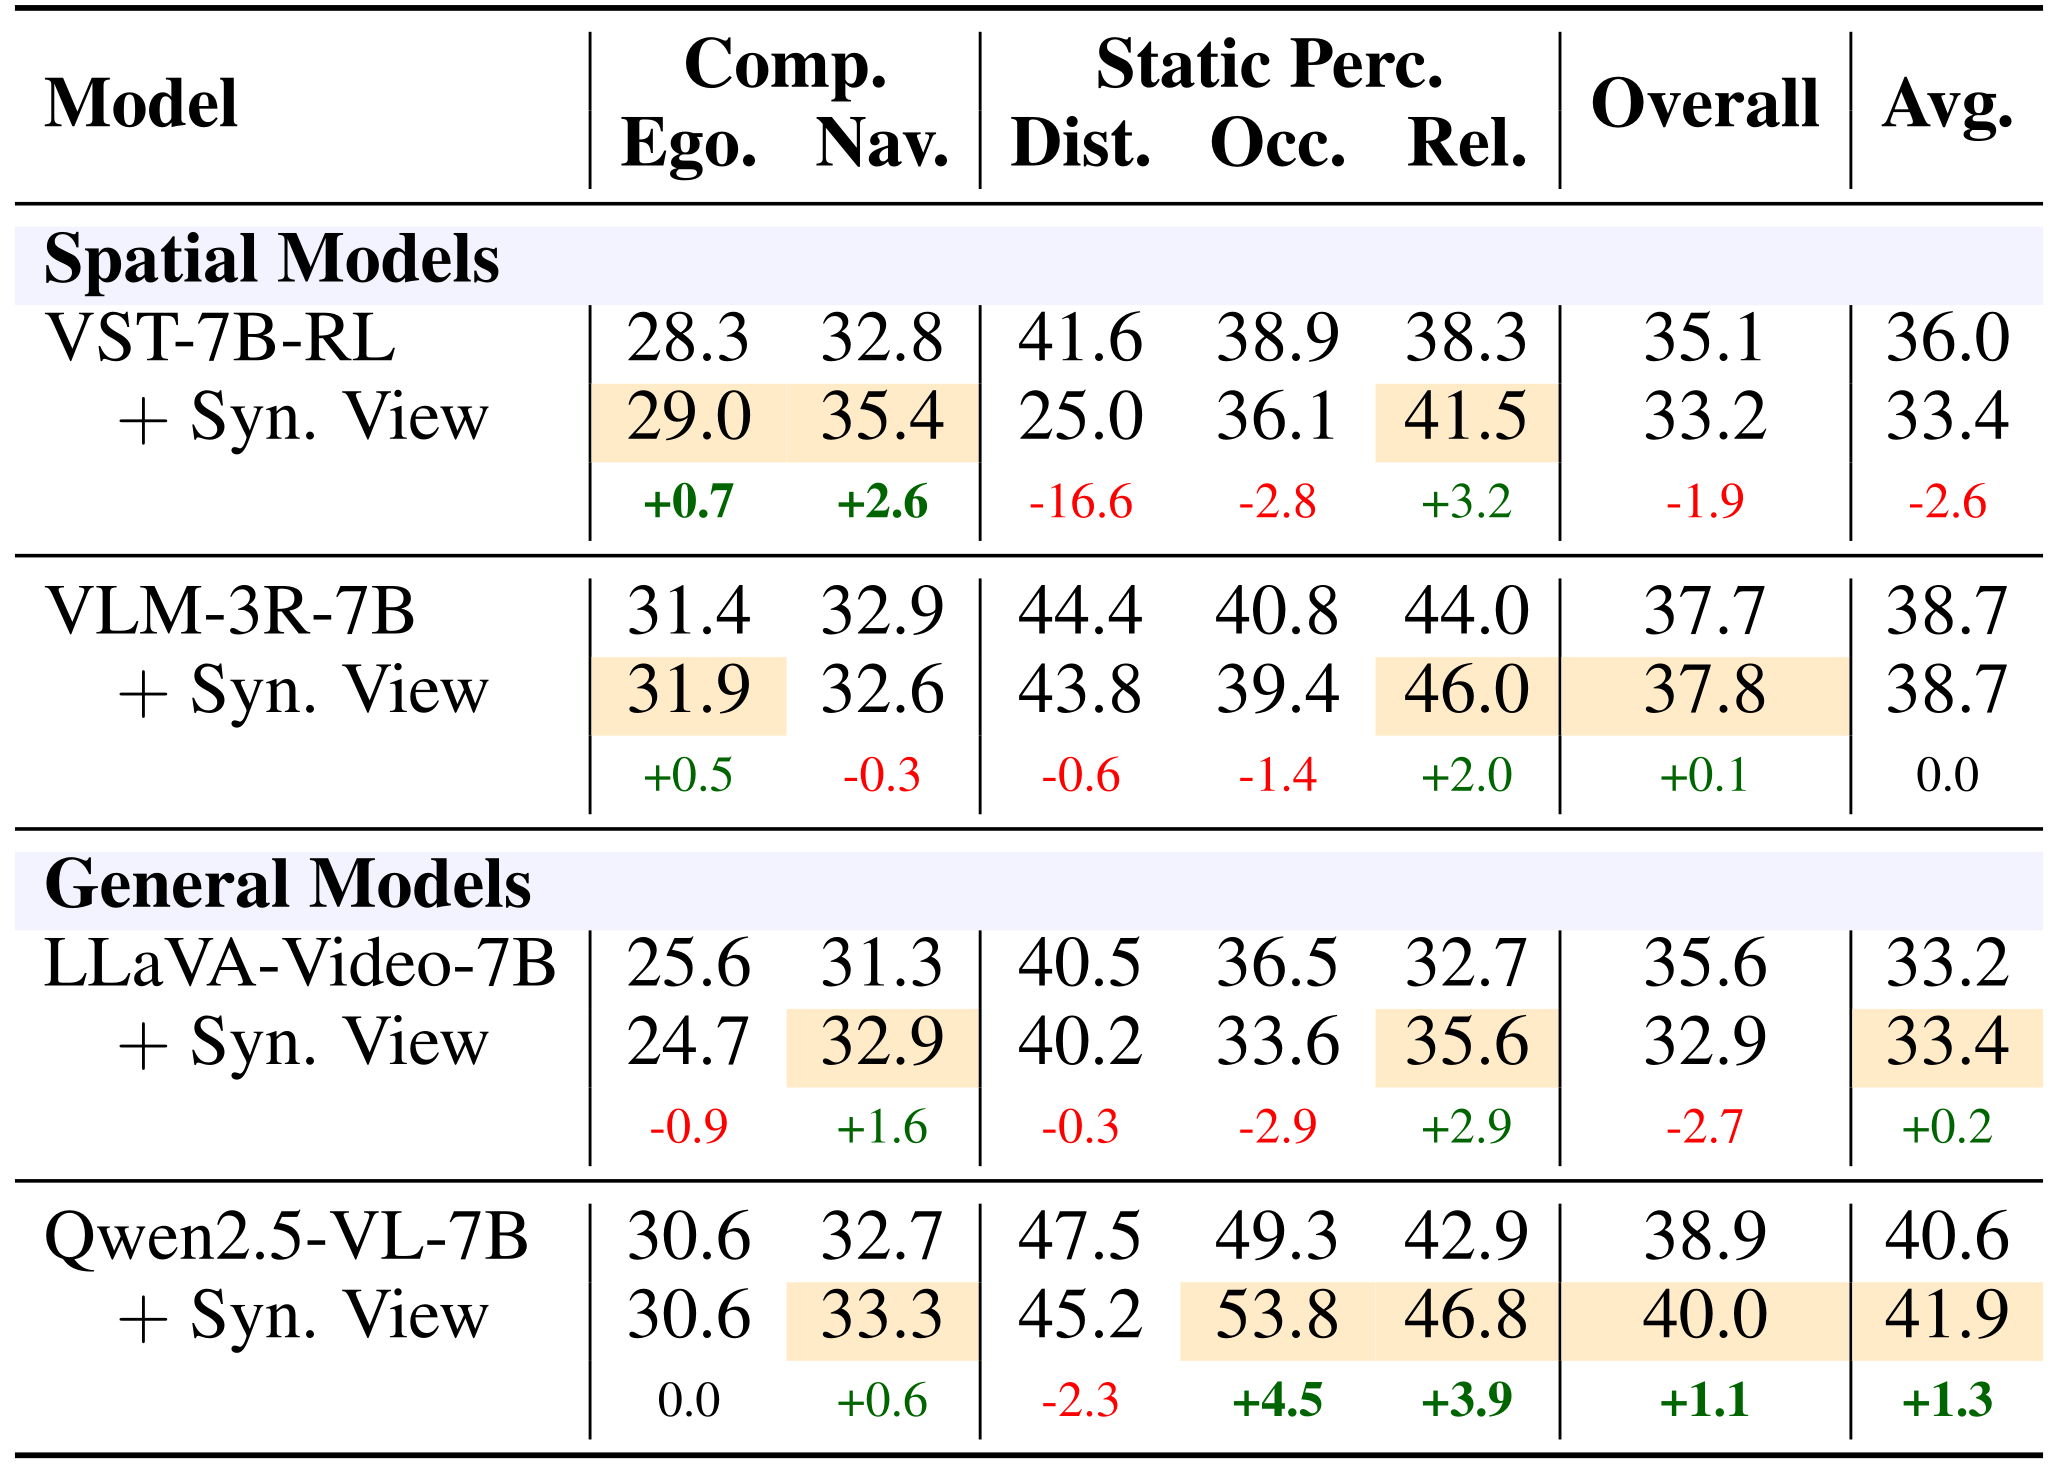
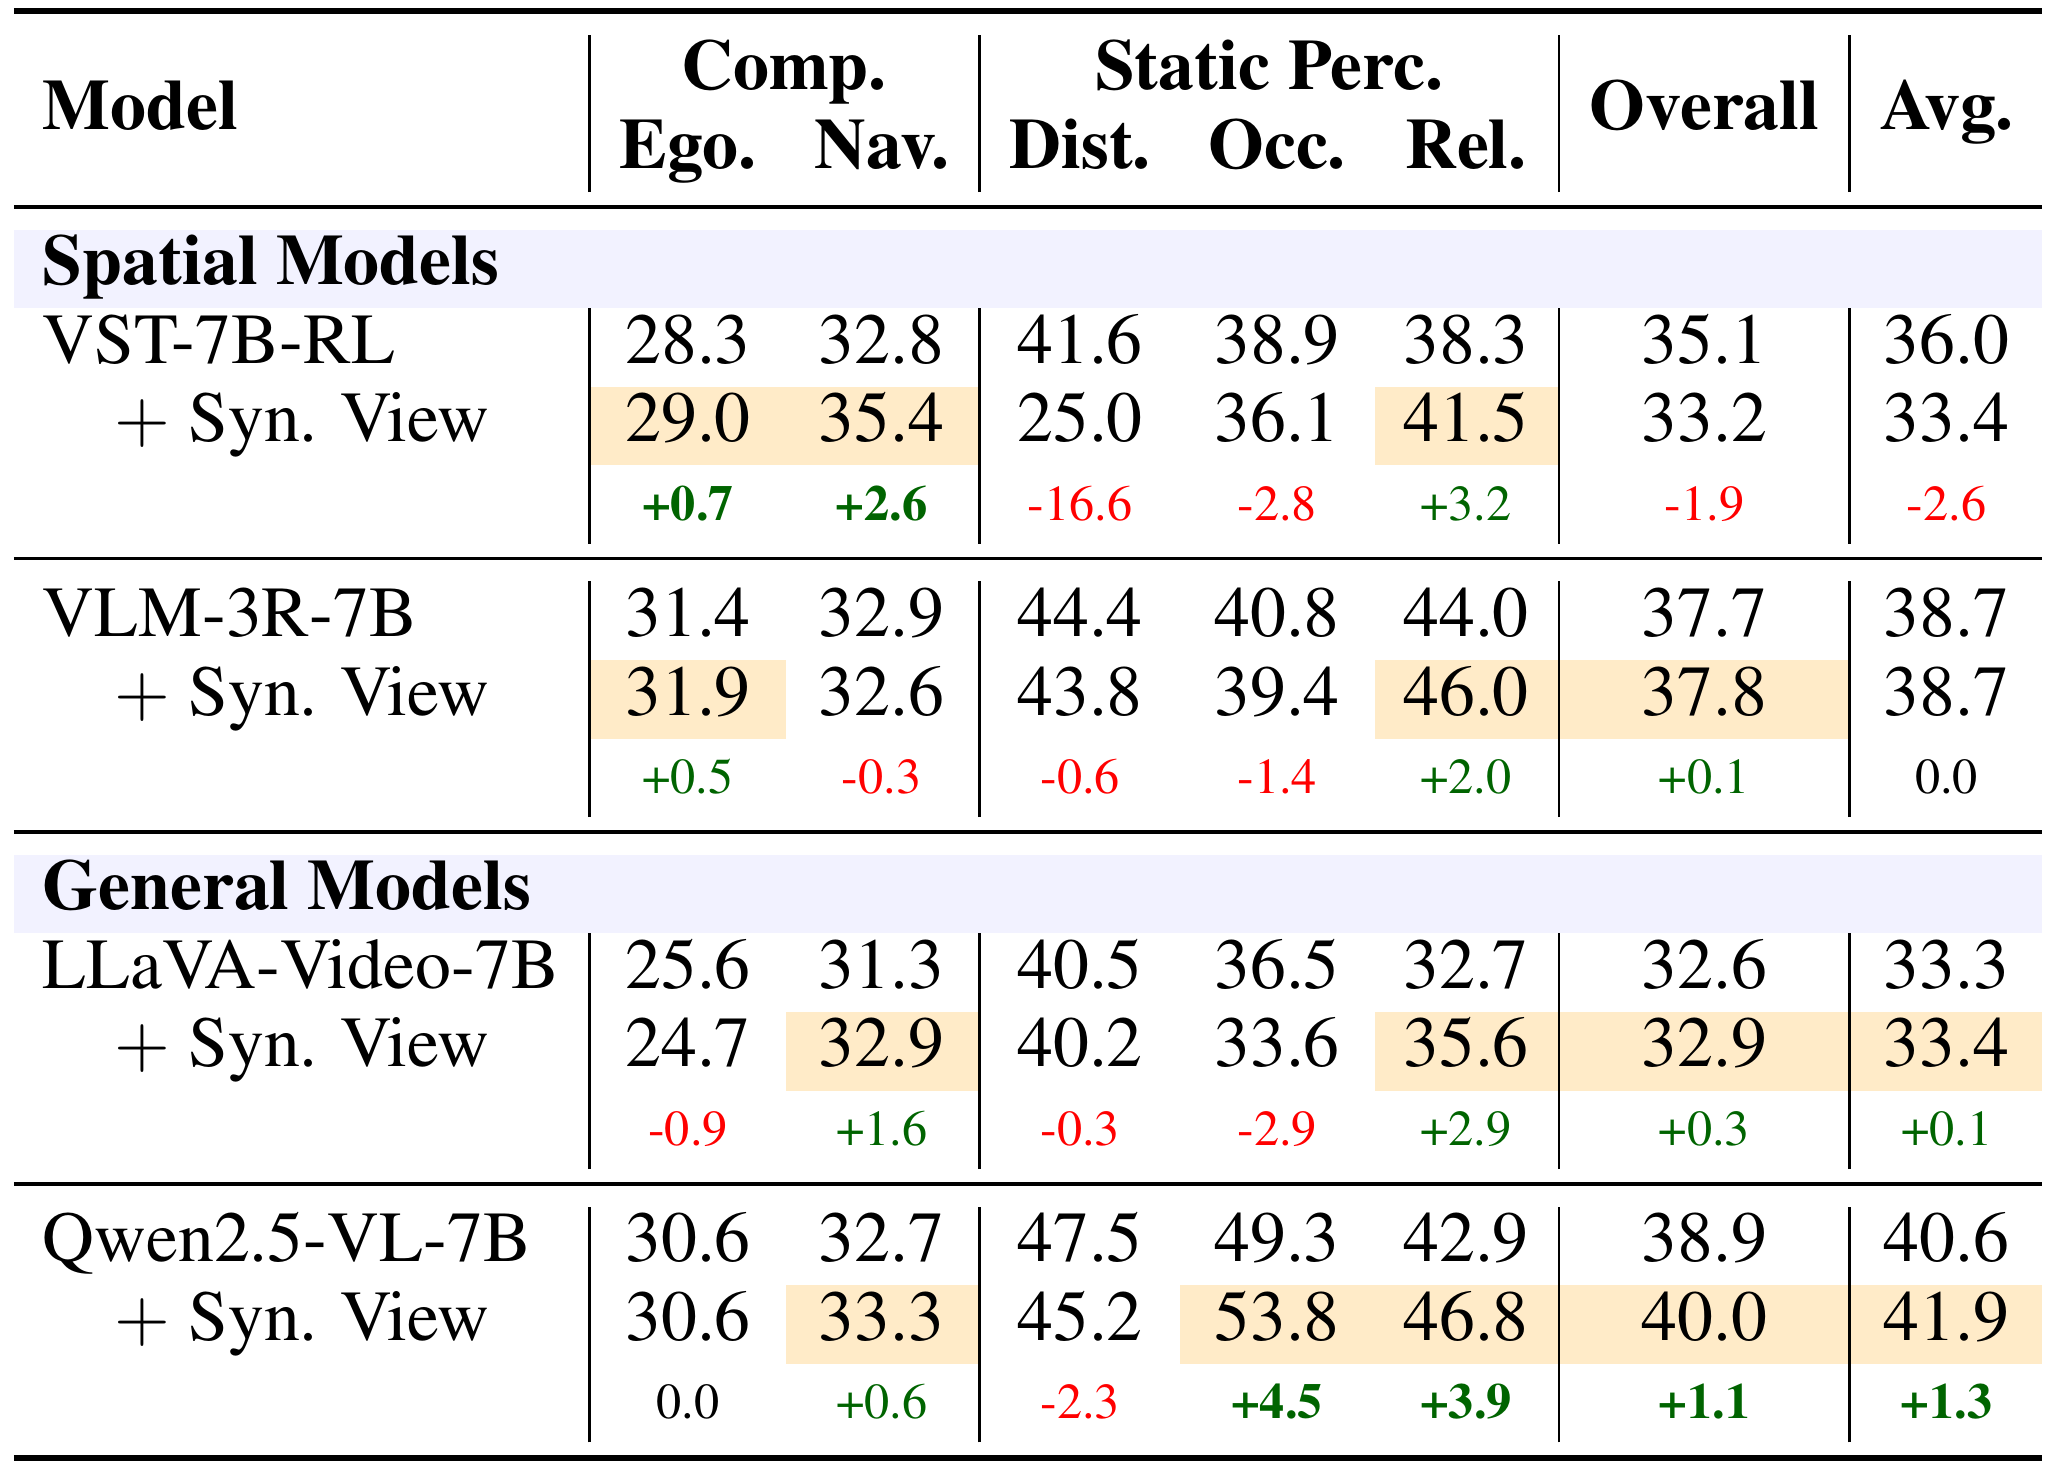
Update tables 2 and 4, figure 6 and affiliation

diff --git a/index.html b/index.html
@@ -60,7 +60,7 @@
         <span class="author-block">Yogesh S. Rawat</span>
       </div>
       <div class="is-size-6 publication-authors affiliations">
-        <span class="author-block">Center for Research in Computer Vision, University of Central Florida</span>
+        <span class="author-block">Institute of Artificial Intelligence, University of Central Florida</span>
       </div>
       <p class="eql-cntrb"><sup>*</sup>Equal contribution</p>
 
@@ -251,7 +251,7 @@
       <div class="table-scroll" tabindex="0" role="region" aria-label="Table, scroll sideways to see all columns"><div class="hl-frame narrow" style="--w:550px">
         <picture>
           <source srcset="static/images/tables/table2_results.webp" type="image/webp">
-          <img src="static/images/tables/table2_results.png" width="2400" height="2418" loading="lazy"
+          <img src="static/images/tables/table2_results.png" width="2400" height="2420" loading="lazy"
                alt="Zero-shot accuracy of 23 models on the five tasks. Human evaluators score 73.2 overall and the best model 55.7.">
         </picture>
       </div></div>
@@ -318,7 +318,7 @@
       <figure class="aitem wide">
         <div class="fig-scroll" tabindex="0" role="region" aria-label="Chart, scroll sideways to see all of it">
         <picture><source srcset="static/images/figures/fig6_flip.webp" type="image/webp">
-        <img src="static/images/figures/fig6_flip.png" width="2400" height="566" loading="lazy" alt="Left, how often each model answer changes under mirroring, with bias ratios close to one half. Right, directional navigation questions shift further than obstacle questions."></picture>
+        <img src="static/images/figures/fig6_flip.png" width="2400" height="625" loading="lazy" alt="Left, how often each model answer changes under mirroring, with bias ratios close to one half. Right, directional navigation questions shift further than obstacle questions."></picture>
         </div>
         <figcaption class="acap"><b>(a)</b> Mirroring a scene changes 22 to 32 percent of answers</figcaption>
       </figure>
@@ -379,8 +379,8 @@
       <div class="table-scroll" tabindex="0" role="region" aria-label="Table, scroll sideways to see all columns"><div class="hl-frame narrow" style="--w:471px">
         <picture>
           <source srcset="static/images/tables/table4_synthetic.webp" type="image/webp">
-          <img src="static/images/tables/table4_synthetic.png" width="2058" height="1473" loading="lazy"
-               alt="Four models before and after adding synthetic views, with the change on each task. Qwen2.5-VL-7B gains 1.1 overall; the others are flat or lower.">
+          <img src="static/images/tables/table4_synthetic.png" width="2056" height="1475" loading="lazy"
+               alt="Four models before and after adding synthetic views, with the change on each task. Qwen2.5-VL-7B gains 1.1 overall, LLaVA-Video-7B and VLM-3R-7B are roughly flat, and VST-7B-RL drops 1.9.">
         </picture>
       </div></div>
       <figcaption><strong>Performance of synthetic view augmentations.</strong> Improvements after adding synthetic views
